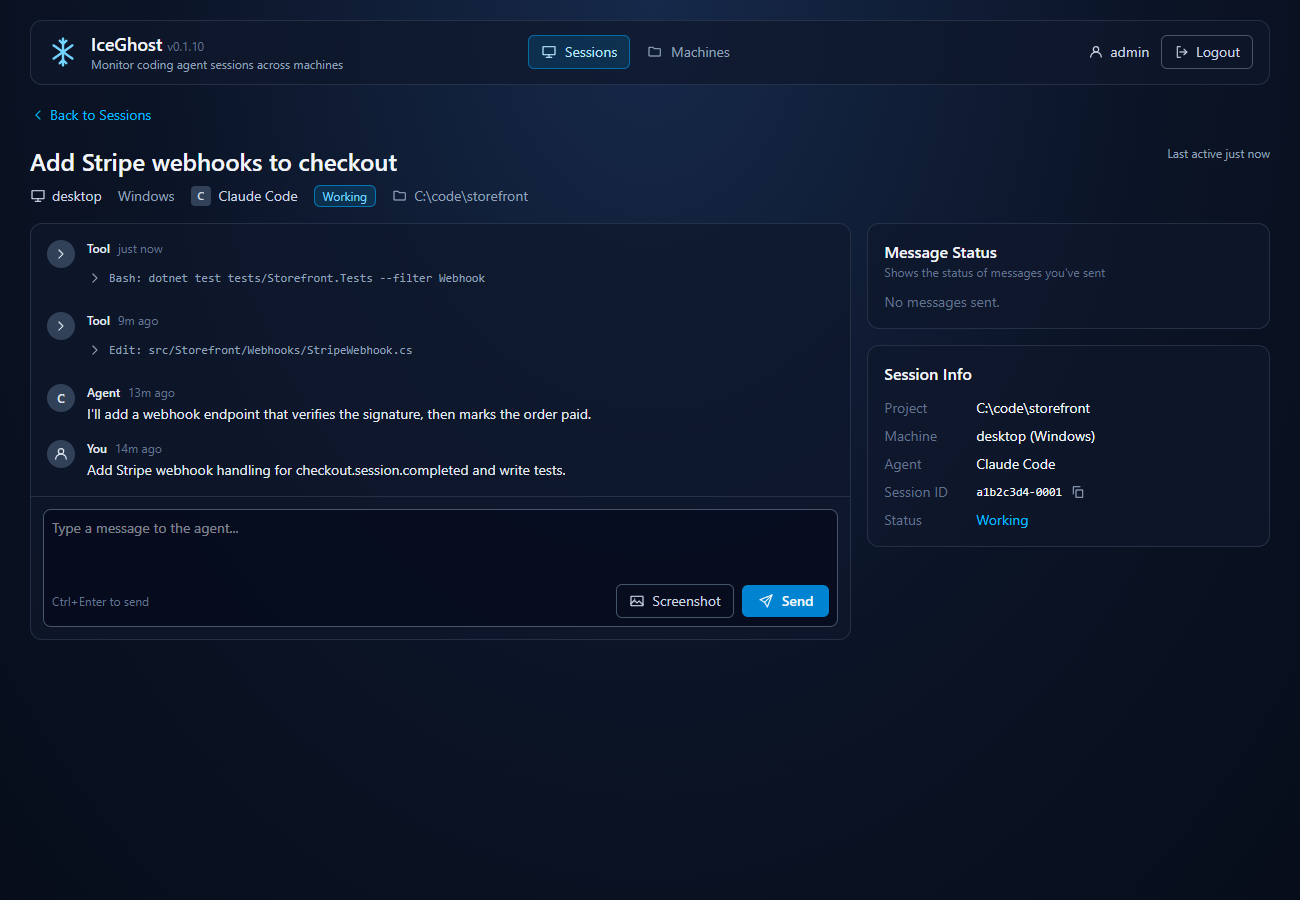
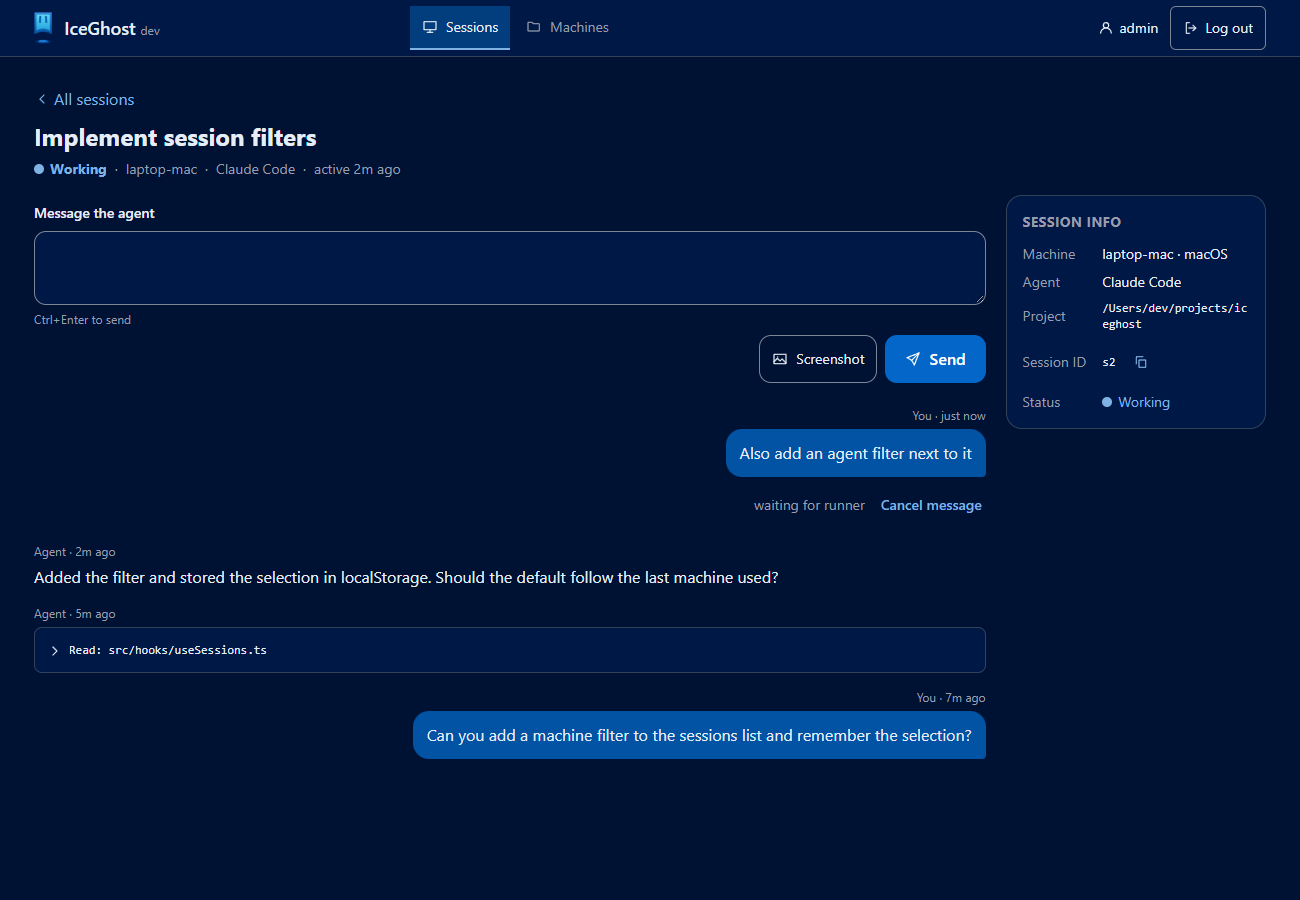
F-DOC-2: README screenshots for the redesign

diff --git a/README.md b/README.md
@@ -12,7 +12,7 @@ There is no hook or plugin in the agent CLIs. A small runner on each PC reads th
 
 | Sessions across your machines | One session: reply, follow progress |
 | --- | --- |
-| ![Session list grouped by state, with the last action of working and stalled sessions](docs/images/screenshot-sessions.png) | ![Session page with the message box on top, sent messages and the transcript newest first](docs/images/screenshot-session.png) |
+| ![Session list: sessions that need you as cards with an inline reply, then active sessions, with done collapsed](docs/images/screenshot-sessions.png) | ![Session page: message box pinned on top, a pending message with its status, then the transcript newest first](docs/images/screenshot-session.png) |
 
 <sub>Screenshots use sample data.</sub>
 
